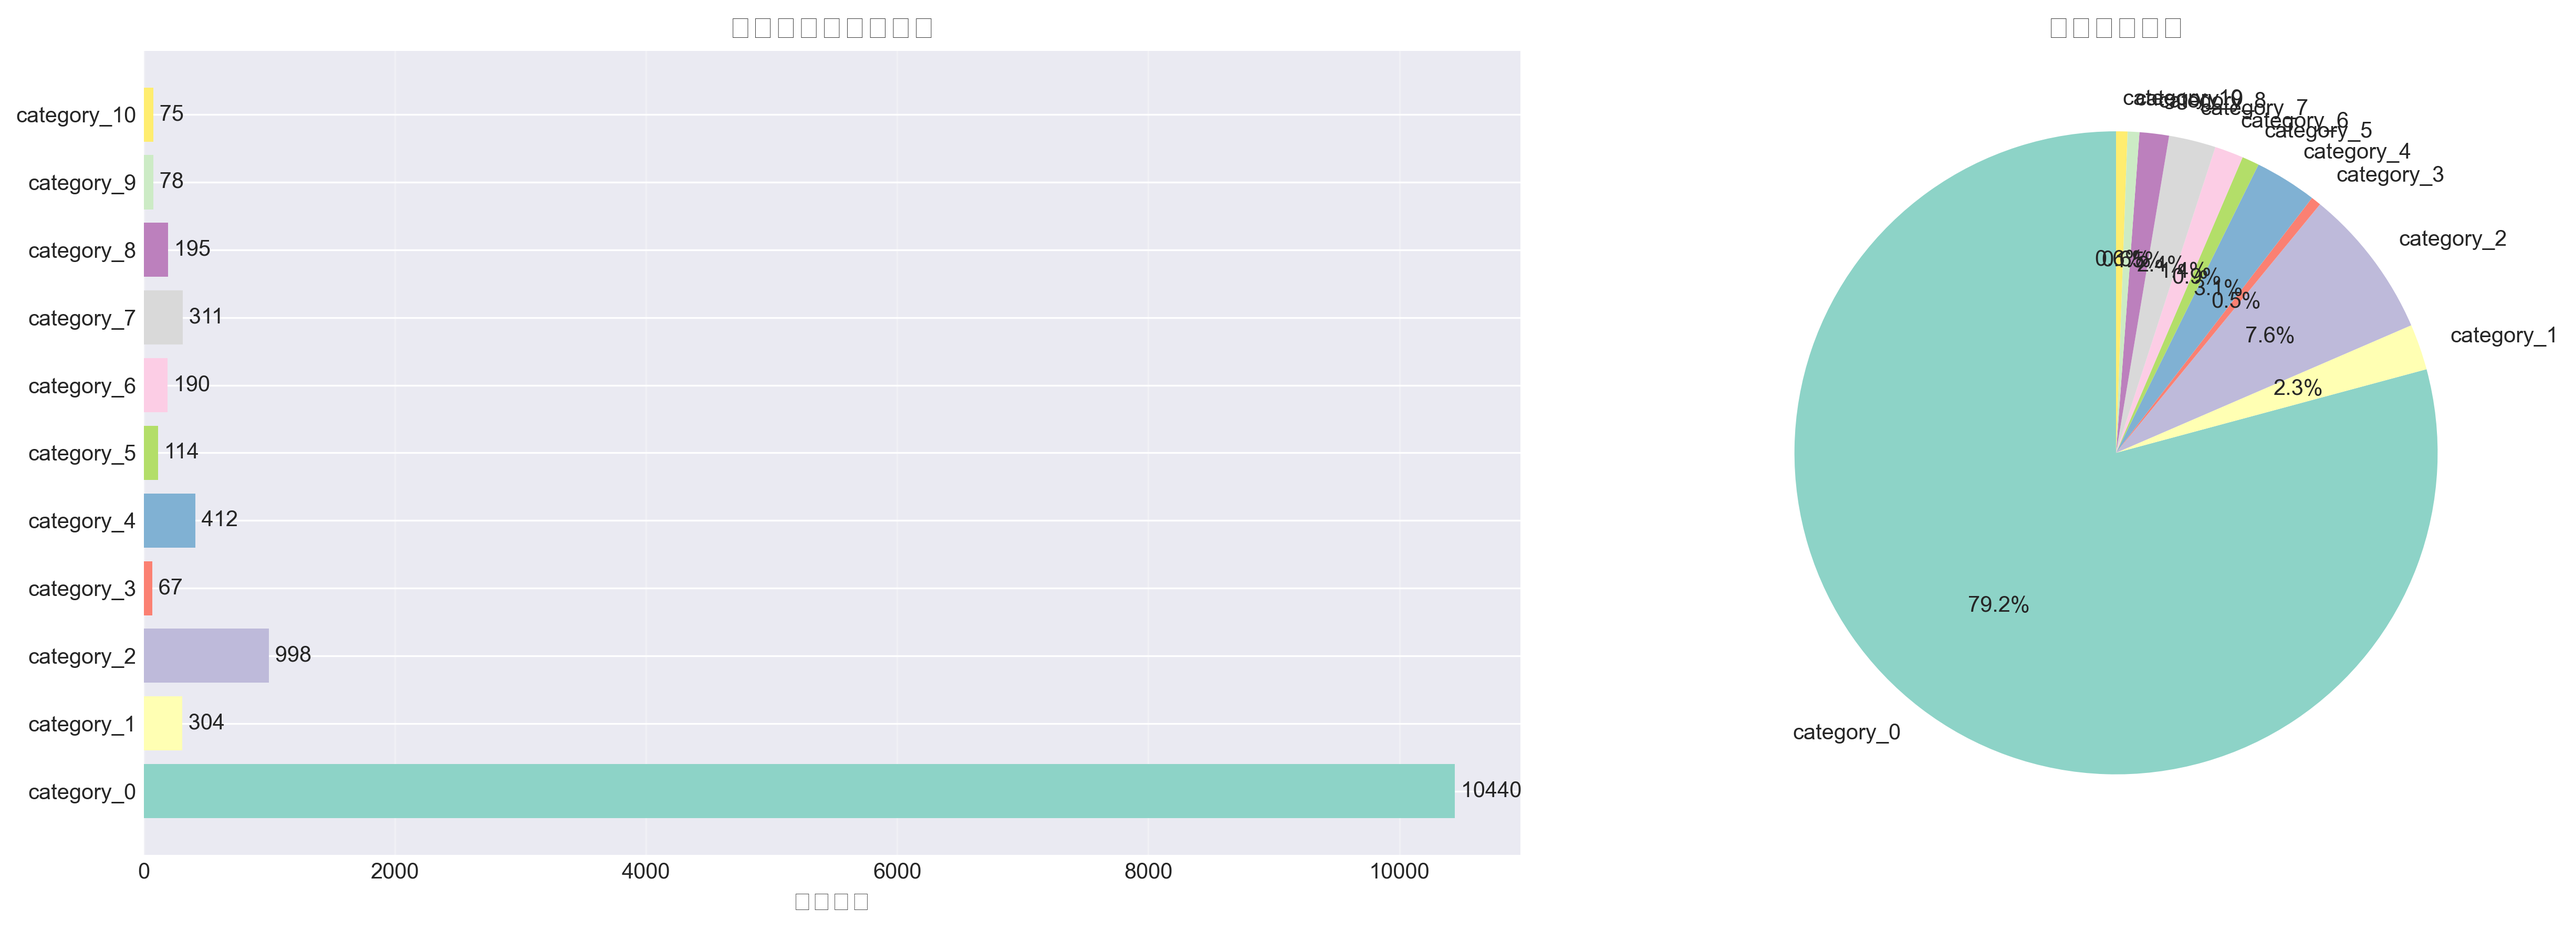
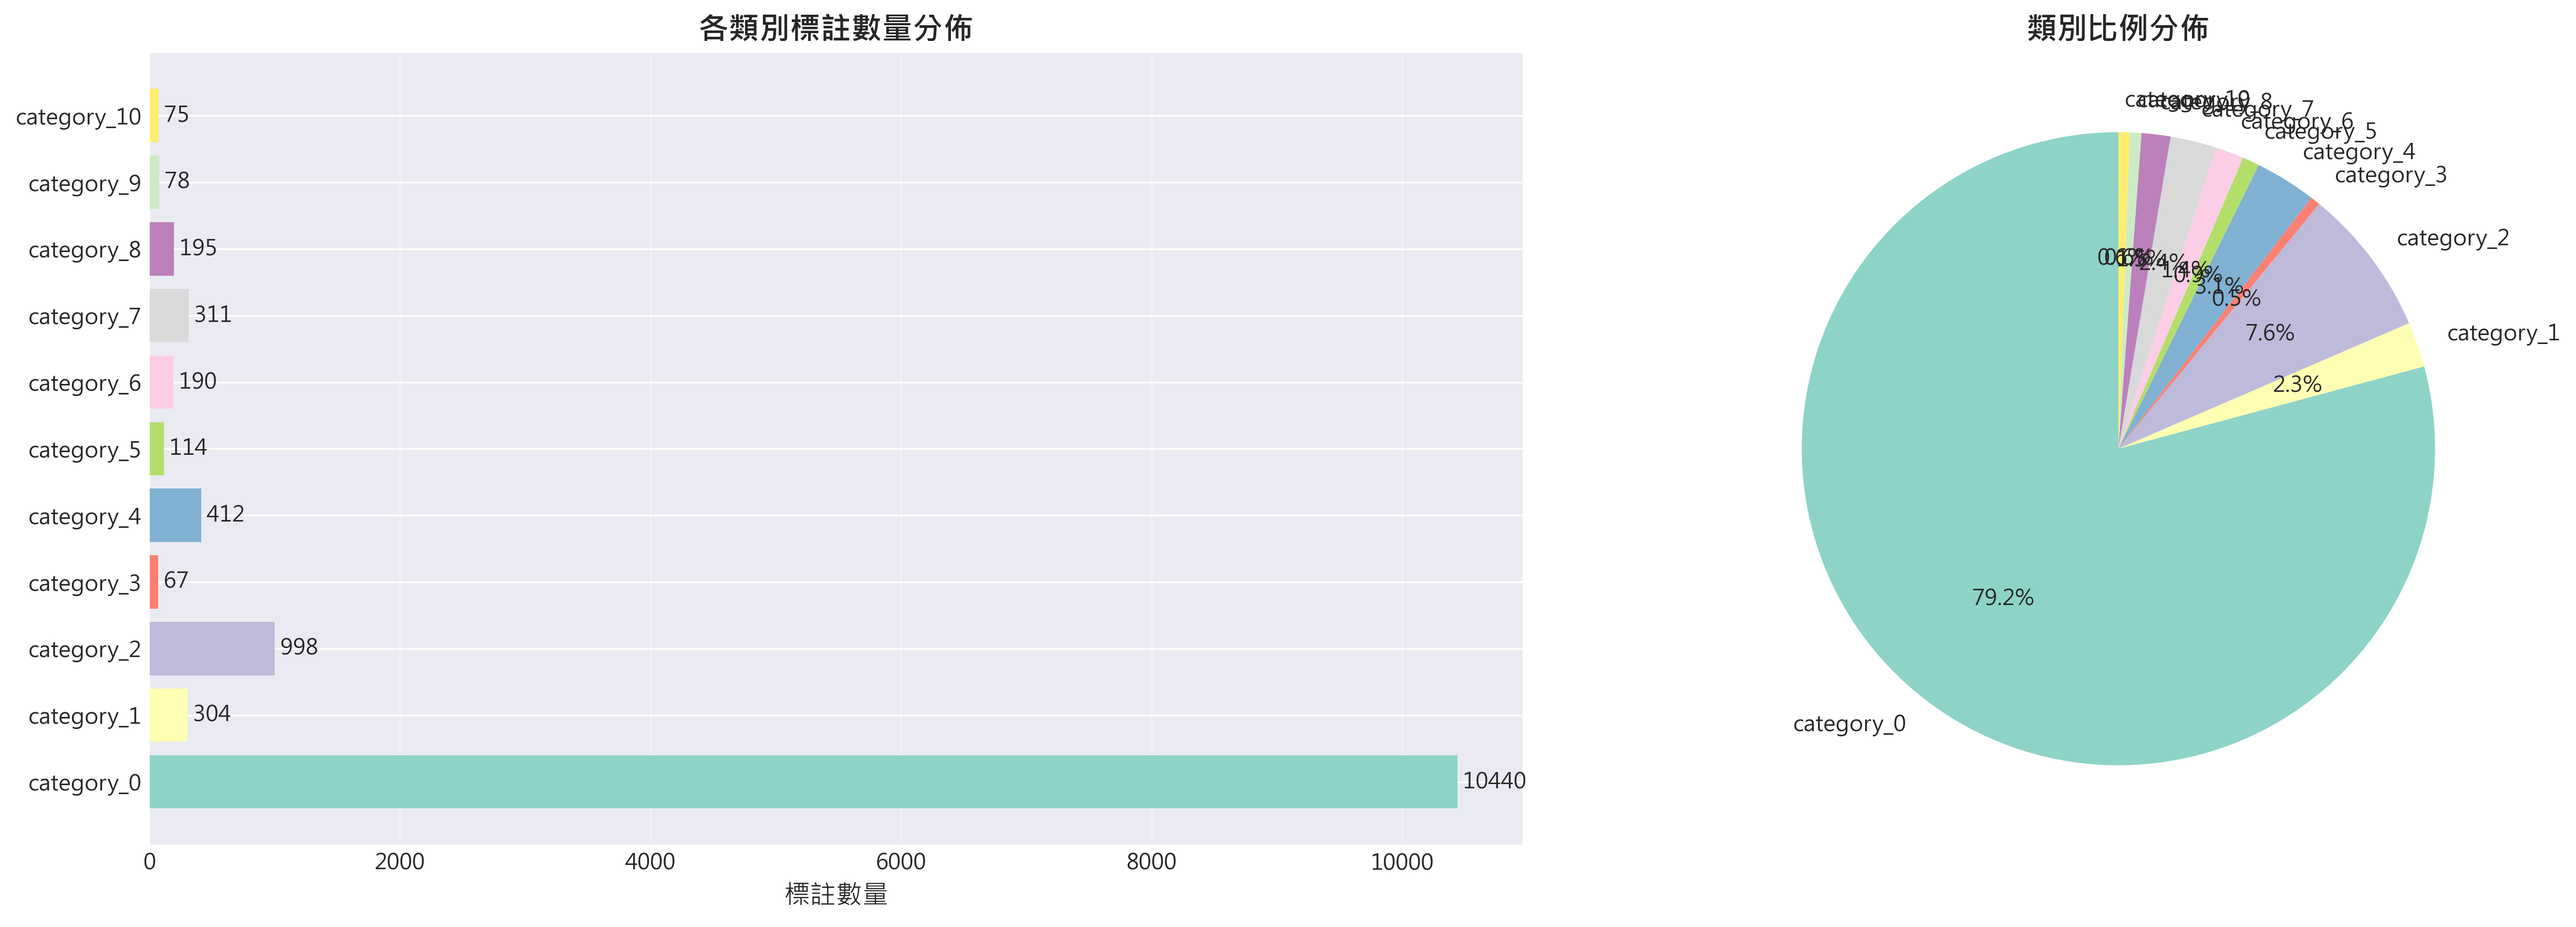
修正 GroceryDataset 標註統計分析與視覺化的中文顯示，更新繪圖風格與字體設定，並優化統計報告邏輯

diff --git a/GroceryDataset_/analyze_annotations_stats.py b/GroceryDataset_/analyze_annotations_stats.py
@@ -1,5 +1,5 @@
 """
-GroceryDataset 標註統計分析與視覺化
+GroceryDataset 標註統計分析與視覺化 (修正中文顯示版)
 生成詳細的統計圖表和報告
 """
 import json
@@ -7,33 +7,67 @@ import os
 from pathlib import Path
 import matplotlib.pyplot as plt
 import matplotlib.patches as patches
-from PIL import Image
+# from PIL import Image # 如果沒有用到 PIL 可以註解掉，或者保留
 import numpy as np
 from collections import defaultdict, Counter
 import seaborn as sns
 import matplotlib.font_manager as fm
 import warnings
 
-# 設定中文字體和風格 - 改進版（抑制字體警告）
+# ==========================================
+# 1. 設定繪圖風格 (必須最先執行)
+# ==========================================
+try:
+    plt.style.use('seaborn-v0_8-darkgrid')
+except:
+    plt.style.use('seaborn-darkgrid') # 相容舊版 matplotlib
+
+sns.set_palette("husl")
+
+# ==========================================
+# 2. 設定中文字體 (必須在 style.use 之後執行)
+# ==========================================
 def setup_chinese_font():
-    """設定中文字體，並抑制缺失字符警告"""
-    # 抑制matplotlib字體警告
+    """
+    設定中文字體，優先使用 Windows 微軟正黑體
+    """
+    # 抑制 matplotlib 的字體警告
     warnings.filterwarnings('ignore', category=UserWarning, module='matplotlib')
     
-    # 使用Microsoft YaHei (通常較完整)
-    plt.rcParams['font.sans-serif'] = ['Microsoft YaHei', 'SimHei', 'Arial Unicode MS']
+    # 常見中文字體列表 (優先順序：微軟正黑體 -> 微軟雅黑 -> 黑體 -> 其他)
+    font_candidates = ['Microsoft JhengHei', 'Microsoft YaHei', 'SimHei', 'Heiti TC', 'Arial Unicode MS']
+    
+    # 偵測系統中可用的字體
+    system_fonts = set([f.name for f in fm.fontManager.ttflist])
+    
+    found_font = False
+    for font_name in font_candidates:
+        if font_name in system_fonts:
+            plt.rcParams['font.sans-serif'] = [font_name] + plt.rcParams['font.sans-serif']
+            plt.rcParams['font.family'] = 'sans-serif'
+            print(f"✓ 成功設定中文字體: {font_name}")
+            found_font = True
+            break
+    
+    if not found_font:
+        print("! 警告: 未找到常見中文字體，圖表中文可能會顯示為方塊")
+        # 還是嘗試設定通用名稱，碰碰運氣
+        plt.rcParams['font.sans-serif'] = ['sans-serif']
+    
+    # 解決負號 '-' 顯示為方塊的問題
     plt.rcParams['axes.unicode_minus'] = False
     
     # 設定字體大小
     plt.rcParams['font.size'] = 10
-    plt.rcParams['axes.titlesize'] = 12
-    plt.rcParams['axes.labelsize'] = 11
-    
-    print("✓ 字體設定完成 (已抑制字體警告)")
+    plt.rcParams['axes.titlesize'] = 14
+    plt.rcParams['axes.labelsize'] = 12
 
+# 立即執行字體設定
 setup_chinese_font()
-plt.style.use('seaborn-v0_8-darkgrid')
-sns.set_palette("husl")
+
+# ==========================================
+# 3. 資料處理與繪圖邏輯
+# ==========================================
 
 def load_coco_data(coco_file):
     """載入 COCO 格式的標註檔案"""
@@ -206,7 +240,8 @@ def plot_objects_per_image(stats, output_dir):
     # Box plot
     ax2.boxplot(objects_counts, vert=True, patch_artist=True,
                 boxprops=dict(facecolor='lightblue', alpha=0.7),
-                medianprops=dict(color='red', linewidth=2))
+                medianprops=dict(color='red', linewidth=2),
+                tick_labels=['所有圖片']) # 修正 matplotlib 3.9+ 警告
     ax2.set_ylabel('每張圖片的物體數量', fontsize=12)
     ax2.set_title('物體數量統計 (箱型圖)', fontsize=14, fontweight='bold')
     ax2.grid(alpha=0.3)
@@ -230,8 +265,9 @@ def plot_category_area_comparison(stats, output_dir):
         area_data.append(stats['category_areas'][cat_id])
     
     # 創建箱型圖
-    bp = ax.boxplot(area_data, labels=categories, patch_artist=True, 
-                    showmeans=True, meanline=True)
+    bp = ax.boxplot(area_data, patch_artist=True, 
+                    showmeans=True, meanline=True,
+                    tick_labels=categories) # 修正參數名稱
     
     # 美化箱型圖
     colors = plt.cm.Set3(np.linspace(0, 1, len(categories)))
@@ -310,7 +346,8 @@ def generate_summary_report(stats, output_dir):
     report_lines.append(f"總圖片數量: {stats['total_images']}")
     report_lines.append(f"總標註數量: {stats['total_annotations']}")
     report_lines.append(f"類別總數: {stats['total_categories']}")
-    report_lines.append(f"平均每張圖片的標註數: {stats['total_annotations'] / stats['total_images']:.2f}")
+    if stats['total_images'] > 0:
+        report_lines.append(f"平均每張圖片的標註數: {stats['total_annotations'] / stats['total_images']:.2f}")
     report_lines.append("")
     
     # 類別統計
@@ -319,34 +356,36 @@ def generate_summary_report(stats, output_dir):
     for cat_id in sorted(stats['category_counts'].keys()):
         cat_name = stats['category_names'][cat_id]
         count = stats['category_counts'][cat_id]
-        percentage = (count / stats['total_annotations']) * 100
+        percentage = (count / stats['total_annotations']) * 100 if stats['total_annotations'] > 0 else 0
         report_lines.append(f"  {cat_name:30} (ID:{cat_id:3}): {count:5} ({percentage:5.2f}%)")
     report_lines.append("")
     
     # 邊界框統計
-    report_lines.append("📦 邊界框統計")
-    report_lines.append("-" * 80)
-    report_lines.append(f"面積 - 平均: {np.mean(stats['bbox_areas']):,.0f} 像素²")
-    report_lines.append(f"面積 - 中位數: {np.median(stats['bbox_areas']):,.0f} 像素²")
-    report_lines.append(f"面積 - 最小: {np.min(stats['bbox_areas']):,.0f} 像素²")
-    report_lines.append(f"面積 - 最大: {np.max(stats['bbox_areas']):,.0f} 像素²")
-    report_lines.append(f"面積 - 標準差: {np.std(stats['bbox_areas']):,.0f} 像素²")
-    report_lines.append("")
-    report_lines.append(f"寬度 - 平均: {np.mean(stats['bbox_widths']):.1f} 像素")
-    report_lines.append(f"高度 - 平均: {np.mean(stats['bbox_heights']):.1f} 像素")
-    report_lines.append(f"長寬比 - 平均: {np.mean(stats['bbox_aspect_ratios']):.2f}")
-    report_lines.append("")
+    if stats['bbox_areas']:
+        report_lines.append("📦 邊界框統計")
+        report_lines.append("-" * 80)
+        report_lines.append(f"面積 - 平均: {np.mean(stats['bbox_areas']):,.0f} 像素²")
+        report_lines.append(f"面積 - 中位數: {np.median(stats['bbox_areas']):,.0f} 像素²")
+        report_lines.append(f"面積 - 最小: {np.min(stats['bbox_areas']):,.0f} 像素²")
+        report_lines.append(f"面積 - 最大: {np.max(stats['bbox_areas']):,.0f} 像素²")
+        report_lines.append(f"面積 - 標準差: {np.std(stats['bbox_areas']):,.0f} 像素²")
+        report_lines.append("")
+        report_lines.append(f"寬度 - 平均: {np.mean(stats['bbox_widths']):.1f} 像素")
+        report_lines.append(f"高度 - 平均: {np.mean(stats['bbox_heights']):.1f} 像素")
+        report_lines.append(f"長寬比 - 平均: {np.mean(stats['bbox_aspect_ratios']):.2f}")
+        report_lines.append("")
     
     # 每張圖片的物體數量統計
     objects_counts = list(stats['objects_per_image'].values())
-    report_lines.append("🖼  每張圖片的物體數量統計")
-    report_lines.append("-" * 80)
-    report_lines.append(f"平均: {np.mean(objects_counts):.2f}")
-    report_lines.append(f"中位數: {np.median(objects_counts):.0f}")
-    report_lines.append(f"最小: {np.min(objects_counts)}")
-    report_lines.append(f"最大: {np.max(objects_counts)}")
-    report_lines.append(f"標準差: {np.std(objects_counts):.2f}")
-    report_lines.append("")
+    if objects_counts:
+        report_lines.append("🖼  每張圖片的物體數量統計")
+        report_lines.append("-" * 80)
+        report_lines.append(f"平均: {np.mean(objects_counts):.2f}")
+        report_lines.append(f"中位數: {np.median(objects_counts):.0f}")
+        report_lines.append(f"最小: {np.min(objects_counts)}")
+        report_lines.append(f"最大: {np.max(objects_counts)}")
+        report_lines.append(f"標準差: {np.std(objects_counts):.2f}")
+        report_lines.append("")
     
     # 圖片尺寸統計
     report_lines.append("📐 圖片尺寸統計")
@@ -355,7 +394,7 @@ def generate_summary_report(stats, output_dir):
     report_lines.append(f"不同尺寸數量: {len(unique_sizes)}")
     for size in unique_sizes:
         count = stats['image_sizes'].count(size)
-        percentage = (count / stats['total_images']) * 100
+        percentage = (count / stats['total_images']) * 100 if stats['total_images'] > 0 else 0
         report_lines.append(f"  {size[0]:5}×{size[1]:5}: {count:4}張 ({percentage:5.2f}%)")
     
     report_lines.append("")
@@ -378,6 +417,10 @@ def create_comprehensive_visualization(coco_file, output_dir='statistics_visuali
     os.makedirs(output_dir, exist_ok=True)
     
     print(f"正在載入標註檔案: {coco_file}")
+    if not os.path.exists(coco_file):
+        print(f"錯誤: 找不到檔案 {coco_file}")
+        return
+
     coco_data = load_coco_data(coco_file)
     
     print("正在計算統計資訊...")
@@ -402,11 +445,11 @@ def create_comprehensive_visualization(coco_file, output_dir='statistics_visuali
     print(f"✅ 所有統計視覺化已完成！")
     print(f"📁 輸出目錄: {os.path.abspath(output_dir)}")
     print("=" * 80)
-
 if __name__ == "__main__":
-    # 設定檔案路徑
-    coco_file = "annotations_coco.json"
-    output_dir = "statistics_visualizations"
+    # 設定檔案路徑 (修正為相對於腳本位置的路徑)
+    script_dir = os.path.dirname(os.path.abspath(__file__))
+    coco_file = os.path.join(script_dir, "annotations_coco.json")
+    output_dir = os.path.join(script_dir, "statistics_visualizations")
     
     # 生成完整的統計視覺化
     create_comprehensive_visualization(coco_file, output_dir)
